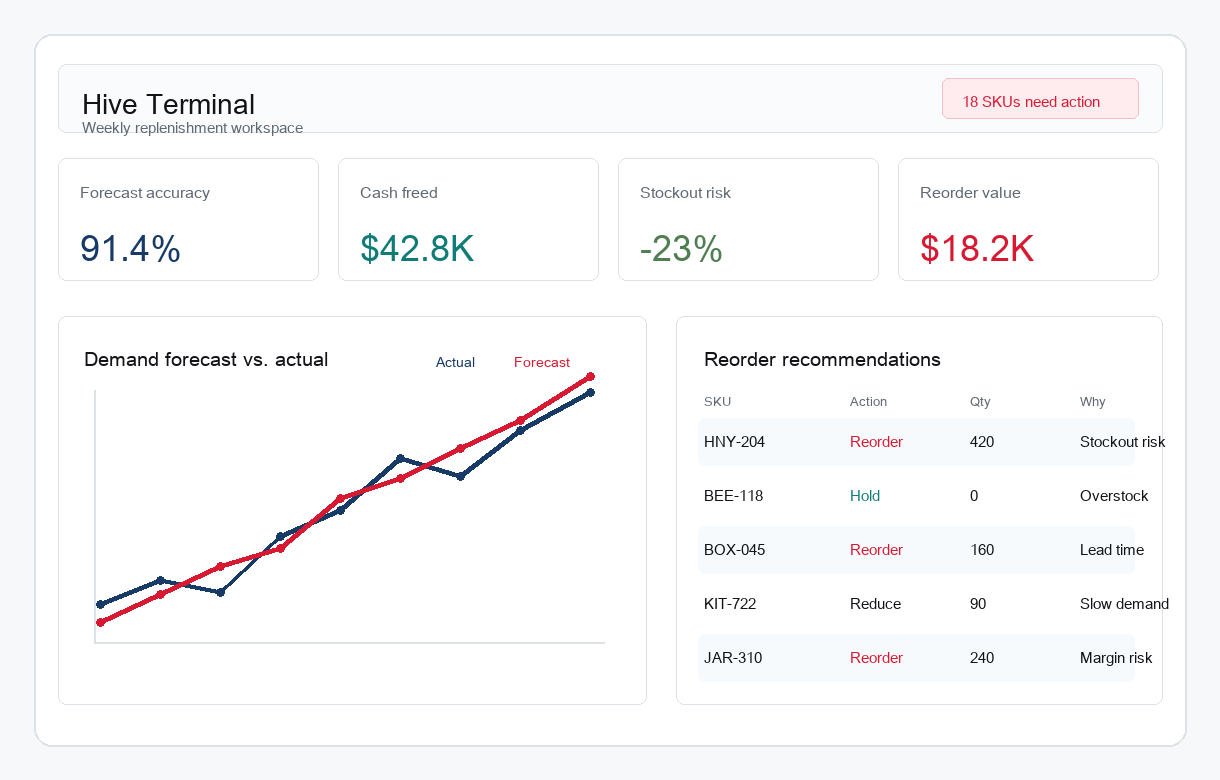
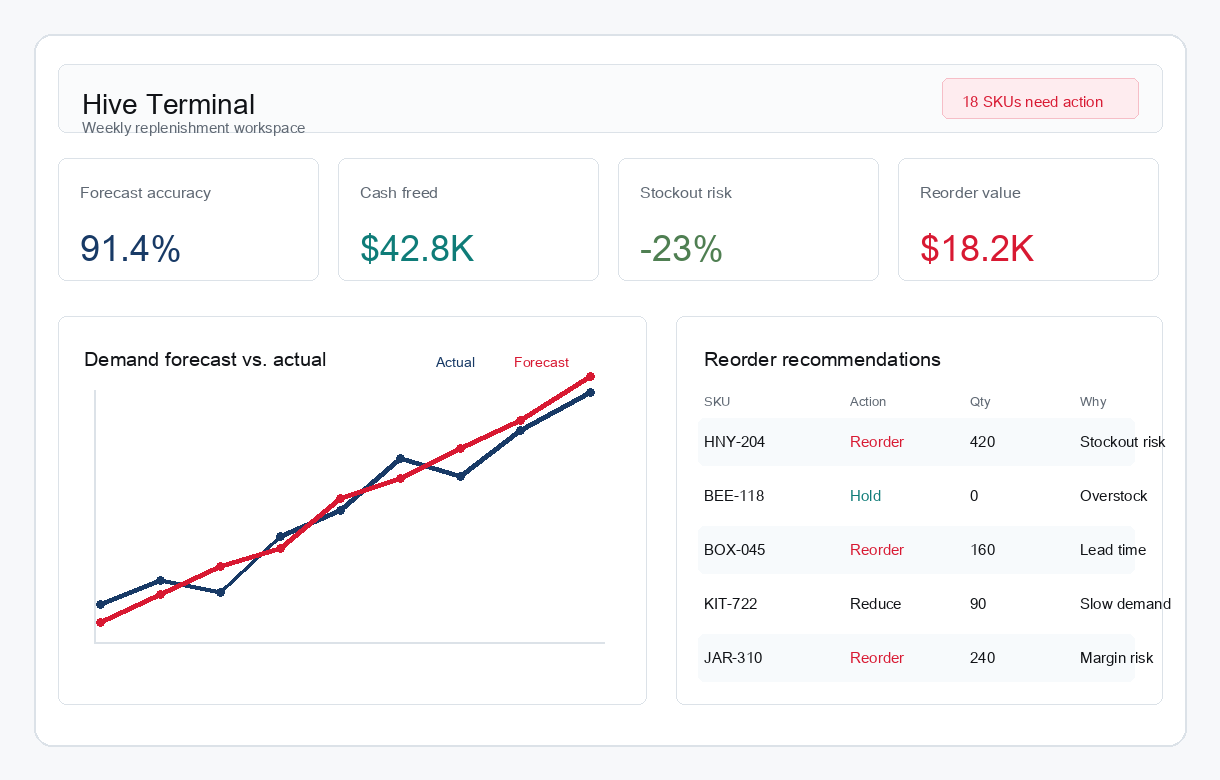
Fix hero dashboard framing

diff --git a/src/styles.css b/src/styles.css
@@ -178,18 +178,51 @@ img {
 
 .hero {
   min-height: 88vh;
-  display: flex;
+  display: grid;
+  grid-template-columns: minmax(340px, 0.8fr) minmax(0, 1fr);
   align-items: center;
+  gap: clamp(38px, 6vw, 92px);
+  position: relative;
+  overflow: hidden;
   padding: 124px clamp(20px, 6vw, 78px) 70px;
-  background-image: url('../hero-dashboard.png');
-  background-position: left center;
-  background-size: cover;
+  background: #ffffff;
   border-bottom: 1px solid var(--line);
 }
 
+.hero::after {
+  content: '';
+  position: absolute;
+  inset: 76px 0 0 50%;
+  background:
+    repeating-linear-gradient(
+      90deg,
+      rgba(237, 241, 245, 0.8) 0,
+      rgba(237, 241, 245, 0.8) 24px,
+      rgba(248, 250, 252, 0.8) 24px,
+      rgba(248, 250, 252, 0.8) 64px
+    );
+}
+
 .hero-copy {
+  position: relative;
+  z-index: 1;
   width: min(690px, 100%);
   padding-top: 18px;
+}
+
+.hero-visual {
+  position: relative;
+  z-index: 1;
+  justify-self: end;
+  width: min(880px, 100%);
+}
+
+.hero-visual img {
+  width: 100%;
+  border: 1px solid rgba(220, 226, 232, 0.96);
+  border-radius: 8px;
+  background: var(--paper);
+  box-shadow: 0 20px 54px rgba(15, 23, 42, 0.13);
 }
 
 .eyebrow,
@@ -621,6 +654,21 @@ h1 {
     grid-column: 3;
   }
 
+  .hero {
+    min-height: auto;
+    grid-template-columns: 1fr;
+    padding-top: 112px;
+  }
+
+  .hero::after {
+    inset: 46% 0 0 0;
+  }
+
+  .hero-visual {
+    justify-self: stretch;
+    width: min(760px, 100%);
+  }
+
   .section-heading,
   .split-section,
   .proof-section,
@@ -665,9 +713,13 @@ h1 {
   }
 
   .hero {
-    min-height: 90vh;
+    min-height: auto;
     padding: 104px 18px 46px;
-    background-position: left center;
+    gap: 34px;
+  }
+
+  .hero::after {
+    inset: 58% 0 0 0;
   }
 
   h1 {

diff --git a/index.html b/index.html
@@ -63,6 +63,9 @@
               <a class="secondary-action" href="#product">See the platform</a>
             </div>
           </div>
+          <div class="hero-visual" aria-hidden="true">
+            <img src="dashboard-preview.png" alt="" />
+          </div>
         </section>
 
         <section class="signal-band" aria-label="Core outcomes">
@@ -154,7 +157,7 @@
 
         <section class="section proof-section">
           <div class="proof-visual" aria-hidden="true">
-            <img src="dashboard-preview.png" alt="" />
+            <img src="audit-snapshot.png" alt="" />
           </div>
           <div class="proof-copy">
             <div class="section-kicker">Built for SMB operations</div>

diff --git a/scripts/generate-assets.py b/scripts/generate-assets.py
@@ -102,9 +102,81 @@ def dashboard_image(width=1220, height=780):
     return image
 
 
+def audit_snapshot_image(width=1220, height=780):
+    image = Image.new("RGB", (width, height), (237, 244, 243))
+    draw = ImageDraw.Draw(image)
+
+    rounded(draw, (34, 34, width - 34, height - 34), 18, WHITE, LINE, 2)
+    rounded(draw, (58, 62, width - 58, 126), 8, (250, 251, 252), LINE, 1)
+    text(draw, (82, 82), "Inventory Audit Snapshot", 28, INK, True)
+    text(draw, (82, 114), "Prioritized cash, stockout, and reorder-policy opportunities", 15, MUTED)
+    rounded(draw, (width - 252, 78, width - 82, 116), 6, (236, 247, 246), (171, 216, 212), 1)
+    text(draw, (width - 230, 89), "ROI view", 15, TEAL, True)
+
+    summary = [
+        ("Cash unlocked", "$42.8K", TEAL, 0.78),
+        ("Lost-sales risk", "-23%", RED, 0.58),
+        ("Policy changes", "31 SKUs", BLUE, 0.66),
+    ]
+    y = 164
+    for label, value, color, bar in summary:
+        rounded(draw, (58, y, 530, y + 104), 8, WHITE, LINE, 1)
+        text(draw, (84, y + 22), label, 16, MUTED, True)
+        text(draw, (84, y + 52), value, 34, color, True)
+        draw.rounded_rectangle((280, y + 61, 490, y + 75), radius=7, fill=(232, 237, 242))
+        draw.rounded_rectangle((280, y + 61, int(280 + 210 * bar), y + 75), radius=7, fill=color)
+        y += 128
+
+    rounded(draw, (568, 164, width - 58, 500), 8, WHITE, LINE, 1)
+    text(draw, (596, 194), "SKU priority matrix", 22, INK, True)
+    text(draw, (596, 224), "Higher-risk products move first", 15, MUTED)
+    matrix = (628, 260, width - 102, 454)
+    draw.rectangle(matrix, outline=LINE, width=2)
+    mx0, my0, mx1, my1 = matrix
+    draw.line((mx0, (my0 + my1) // 2, mx1, (my0 + my1) // 2), fill=LINE, width=1)
+    draw.line(((mx0 + mx1) // 2, my0, (mx0 + mx1) // 2, my1), fill=LINE, width=1)
+    text(draw, (mx0, my1 + 18), "Holding cost", 13, MUTED)
+    text(draw, (mx1 - 120, my1 + 18), "Stockout risk", 13, MUTED)
+    points = [
+        (704, 404, TEAL),
+        (772, 348, BLUE),
+        (842, 386, TEAL),
+        (902, 296, RED),
+        (980, 326, RED),
+        (1046, 286, RED),
+    ]
+    for x, py, color in points:
+        draw.ellipse((x - 11, py - 11, x + 11, py + 11), fill=color, outline=WHITE, width=3)
+    text(draw, (904, 254), "Act now", 14, RED, True)
+
+    rounded(draw, (568, 520, width - 58, 736), 8, WHITE, LINE, 1)
+    text(draw, (596, 550), "Next-best policies", 20, INK, True)
+    rows = [
+        ("HNY-204", "Stockout exposure", "Reorder now"),
+        ("BEE-118", "Overstock", "Pause buying"),
+        ("KIT-722", "Slow demand", "Reduce target"),
+    ]
+    columns = [596, 758, 976]
+    headers = ["SKU", "Finding", "Action"]
+    for x, h in zip(columns, headers):
+        text(draw, (x, 594), h, 13, MUTED, True)
+    row_y = 628
+    for i, row in enumerate(rows):
+        if i % 2 == 0:
+            rounded(draw, (588, row_y - 11, width - 84, row_y + 31), 6, (247, 250, 252), None)
+        for x, cell in zip(columns, row):
+            fill = RED if cell == "Reorder now" else TEAL if cell == "Pause buying" else INK
+            text(draw, (x, row_y), cell, 15, fill, cell in {"Reorder now", "Pause buying"})
+        row_y += 38
+
+    return image
+
+
 def create_assets():
     dashboard = dashboard_image()
     dashboard.save(PUBLIC / "dashboard-preview.png")
+    audit_snapshot = audit_snapshot_image()
+    audit_snapshot.save(PUBLIC / "audit-snapshot.png")
 
     hero = Image.new("RGB", (1800, 1040), (250, 251, 252))
     draw = ImageDraw.Draw(hero)